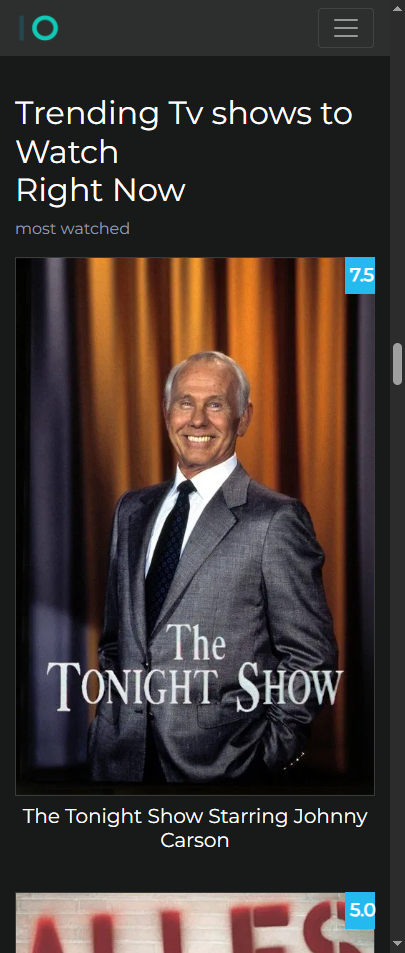
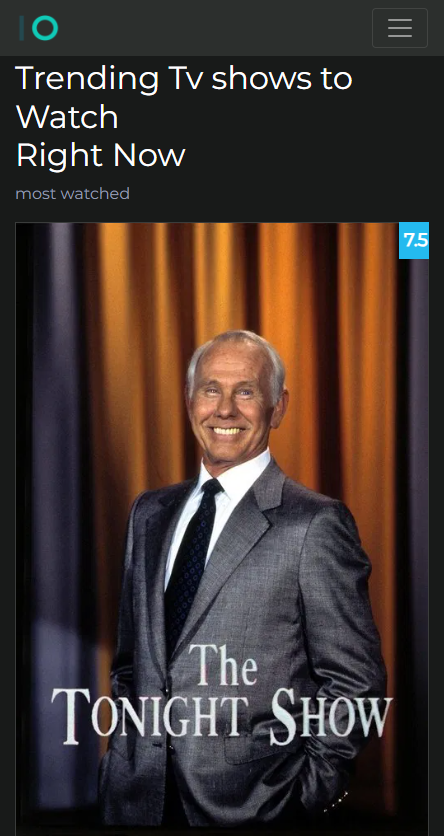
second-commit

diff --git a/src/app/moviedetails/moviedetails.component.scss b/src/app/moviedetails/moviedetails.component.scss
@@ -1,9 +1,13 @@
 .movied-container {
   display: flex;
+  max-width: 80rem;
+  margin-left: auto;
+  margin-right: auto;
 }
 
 .movied-container > img {
   max-width: 35rem;
+  max-height: 750px;
 }
 
 .movied-container > div {
@@ -20,7 +24,7 @@
   padding-left: 4rem;
 }
 
-@media (max-width: 920px) {
+@media (max-width: 970px) {
   .movied-container {
     flex-direction: column;
     text-align: center;

diff --git a/src/app/moviedetails/moviedetails.component.html b/src/app/moviedetails/moviedetails.component.html
@@ -7,9 +7,9 @@
     <!-- if movie -->
     <h1 *ngIf="details.title">{{ details?.title }}</h1>
     <!-- if tvshow -->
-    <h1 *ngIf="details.original_name">
+    <!-- <h1 *ngIf="details.original_name">
       {{ details?.original_name }}
-    </h1>
+    </h1> -->
     <!-- if person -->
     <h1 *ngIf="details.name">{{ details?.name }}</h1>
     <p *ngIf="details.overview">{{ details.overview }}</p>

diff --git a/README.md b/README.md
@@ -15,33 +15,25 @@ You can check out the live version here:
 
 ## Screenshots
 
-### 1. Home Page
+### Home Page
+
+![App Screenshot](https://raw.githubusercontent.com/mohamedsabry95/trending-movies/main/screenshots/homepage.png)
+
+### Media Details
+
+![App Screenshot](https://raw.githubusercontent.com/mohamedsabry95/trending-movies/main/screenshots/movie-details.png)
+
+### About
+
+![App Screenshot](https://raw.githubusercontent.com/mohamedsabry95/trending-movies/main/screenshots/about.png)
+
+### Responsive View
 
 ![App Screenshot](https://raw.githubusercontent.com/mohamedsabry95/trending-movies/main/screenshots/responsive.png)
 
-### 2. Movie Details
+### Celebrity Overview
 
-![App Screenshot](https://raw.githubusercontent.com/mohamedsabry95/trending-movies/main/screenshots/responsive.png)
-
-### 3. TV Shows List
-
-![App Screenshot](https://raw.githubusercontent.com/mohamedsabry95/trending-movies/main/screenshots/responsive.png)
-
-### 4. Celebrity Overview
-
-![App Screenshot](https://raw.githubusercontent.com/mohamedsabry95/trending-movies/main/screenshots/responsive.png)
-
-### 5. Search Results
-
-![App Screenshot](https://raw.githubusercontent.com/mohamedsabry95/trending-movies/main/screenshots/responsive.png)
-
-### 6. Navigation Menu
-
-![App Screenshot](https://raw.githubusercontent.com/mohamedsabry95/trending-movies/main/screenshots/responsive.png)
-
-### 7. Responsive View
-
-![App Screenshot](https://raw.githubusercontent.com/mohamedsabry95/trending-movies/main/screenshots/responsive.png)
+![App Screenshot](https://raw.githubusercontent.com/mohamedsabry95/trending-movies/main/screenshots/celeb.png)
 
 ## About Me
 
